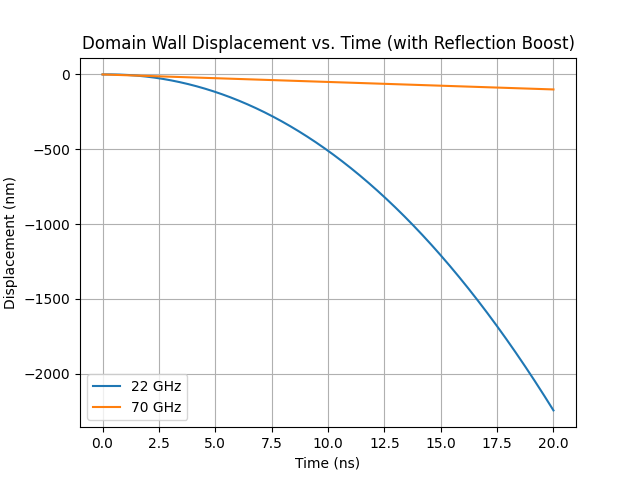
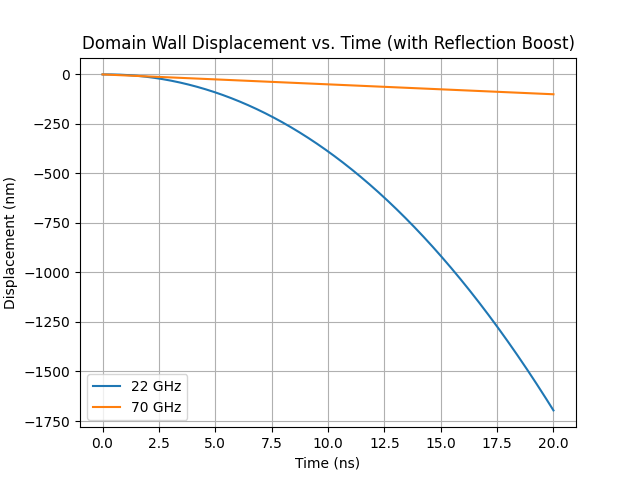
img new

diff --git a/dis1b.py b/dis1b.py
@@ -3,7 +3,7 @@ import matplotlib.pyplot as plt
 from scipy.integrate import solve_ivp
 
 alpha = 0.01
-beta  = 200.0   # Reflection boost factor (tune as needed)
+beta  = 150.0   # Reflection boost factor (tune as needed)
 u_const = 5.0
 A_const = 1e7
 
